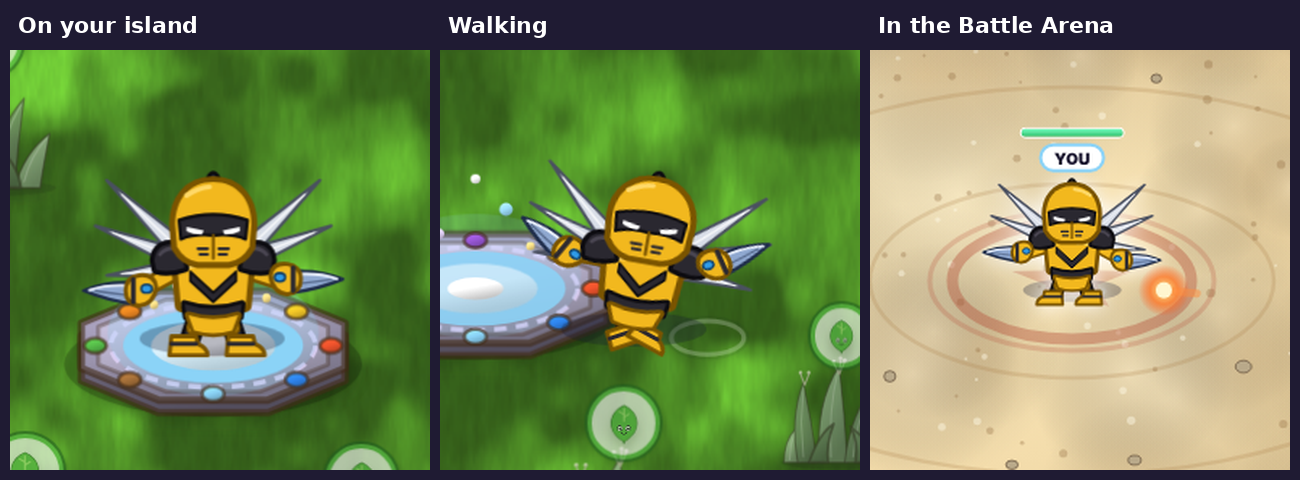
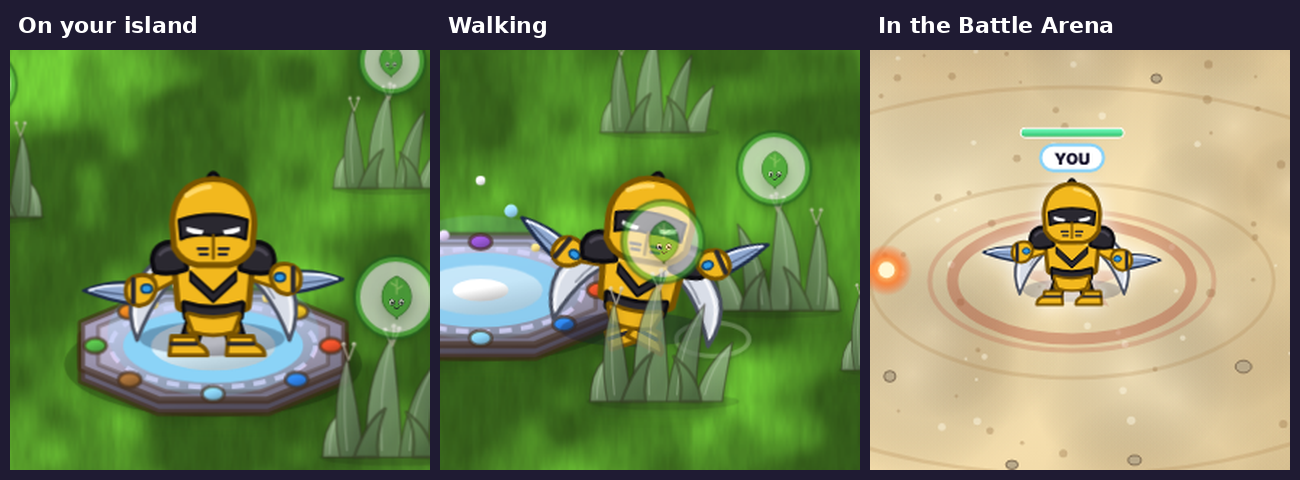
Preview: winged warrior with single down-hanging blade wings
Claude-Session: https://claude.ai/code/session_01VLdLc5ictpYJybhtPWKJ3B

diff --git a/src/previews/sentinel.js b/src/previews/sentinel.js
@@ -1,5 +1,5 @@
 /* Winged warrior (no name yet): the owner's armoured warrior in yellow and black: a knight helmet with a black visor and white eye
-   slits, a black crest, a yellow breastplate with a black chevron, black shoulder guards, metal blade-feather wings, solid armour
+   slits, a black crest, a yellow breastplate with a black chevron, black shoulder guards, a big silver blade-wing hanging down behind each shoulder, solid armour
    plates (no stripes), and yellow gauntlets with blue gems and one big blade sticking out of each (Air, melee, Giant). (preview only) */
 var SN = { Y: '#f2b81e', YD: '#7a5400', YL: '#ffd968', K: '#2a2830', KD: '#0c0b10', KL: '#4a4652', BL: '#2f9be8', BLD: '#0e3f6a', W: '#d9dee8', WD: '#4a5060', ST: '#8fa8d0', STD: '#1e2c4a' };
 function snClaw(x, y, m){      /* a yellow gauntlet with one big blade sticking out past the knuckles; m = 1 blades right, -1 left */
@@ -47,16 +47,13 @@ function snBack(c){
     return '<path d="M' + x1 + ' ' + y1 + 'L' + x2 + ' ' + y2 + '" stroke="' + S.YD + '" stroke-width="10" stroke-linecap="round"/>' +
       '<path d="M' + x1 + ' ' + y1 + 'L' + x2 + ' ' + y2 + '" stroke="' + S.Y + '" stroke-width="6.4" stroke-linecap="round"/>';
   }
-  /* metal blade-feather wings: three long silver blades on each side, set in a black frame */
+  /* wings: one big silver blade on each side, hanging down behind him from the shoulders */
   function wing(m){
     function X(x){ return (50 + (x - 50) * m).toFixed(1); }
-    function blade(x0, y0, x1, y1, w){
-      var dx = x1 - x0, dy = y1 - y0, L = Math.hypot(dx, dy), nx = -dy / L * w, ny = dx / L * w;
-      return '<path d="M' + X(x0 + nx) + ' ' + (y0 + ny) + 'L' + X(x1) + ' ' + y1 + 'L' + X(x0 - nx) + ' ' + (y0 - ny) + 'Z" fill="' + S.W + '" stroke="' + S.WD + '" stroke-width="1.6" stroke-linejoin="round"/>' +
-        '<path d="M' + X(x0) + ' ' + y0 + 'L' + X(x0 + dx * 0.8) + ' ' + (y0 + dy * 0.8) + '" stroke="#fff" stroke-width="1" stroke-linecap="round" stroke-opacity=".8"/>';
-    }
-    return blade(34, 50, -6, 12, 5.4) + blade(34, 54, -12, 36, 5.2) + blade(34, 58, -6, 62, 4.8) +
-      '<path d="M' + X(36) + ' 48L' + X(28) + ' 46L' + X(26) + ' 60L' + X(36) + ' 60Z" fill="' + S.K + '" stroke="' + S.KD + '" stroke-width="1.8" stroke-linejoin="round"/>';
+    return '<path d="M' + X(36) + ' 47Q' + X(16) + ' 52 ' + X(8) + ' 70Q' + X(4) + ' 82 ' + X(10) + ' 96Q' + X(16) + ' 80 ' + X(24) + ' 70Q' + X(31) + ' 62 ' + X(36) + ' 60Z" fill="' + S.W + '" stroke="' + S.WD + '" stroke-width="2" stroke-linejoin="round"/>' +
+      '<path d="M' + X(32) + ' 50Q' + X(16) + ' 57 ' + X(10) + ' 74Q' + X(8) + ' 83 ' + X(10) + ' 91" fill="none" stroke="#fff" stroke-width="1.4" stroke-linecap="round" stroke-opacity=".85"/>' +
+      '<path d="M' + X(33) + ' 57Q' + X(24) + ' 63 ' + X(18) + ' 74" fill="none" stroke="' + S.WD + '" stroke-width="1.1" stroke-linecap="round" stroke-opacity=".5"/>' +
+      '<path d="M' + X(37) + ' 46L' + X(29) + ' 46L' + X(27) + ' 61L' + X(37) + ' 61Z" fill="' + S.K + '" stroke="' + S.KD + '" stroke-width="1.8" stroke-linejoin="round"/>';
   }
   return '<svg class="limbs" viewBox="0 0 100 100" aria-hidden="true" style="overflow:visible">' + wing(-1) + wing(1) + leg('lgL', 41, 38, 35) + leg('lgR', 59, 62, 65) +
     '<g><g class="pump pL">' + arm(30, 60, 17, 67) + snClaw(12, 72, -1) + '</g></g>' +

diff --git a/HANDOFF.md b/HANDOFF.md
@@ -21,7 +21,7 @@ Test version (claude.ai artifact, owner's private test page): https://claude.ai/
 
 **Game rule: no passive health regeneration in any minigame.** Food drops are the only way to heal (Guard Post, Boss Raid, Island Quest). Island Quest used to heal 7%/s after 4 s out of a fight; that was removed. Do not add it to new minigames. Test: `node src/mock2/tqregen.js`.
 
-**Special pals (`c.body`):** hand-drawn bodies picked under "Look" in the New pal form: `eagle` (Sky Eagle, Air, ranged, arm cannon), `wyrm` (Grave Dragon, Undead, ranged, purple lightning shots via `shotLook` / `drawZap`, also sent as 'zap' in arena snapshots and as a flag in quest `Z`), `knight` (Skeleton Knight, Undead, melee, sword and shield), `mecha` (Wheel Bot, the owner's yellow robot on a wheel, Tech, ranged, always Giant), `cyc` (Iron Cyclops, the one-eyed soldier with the all-black helmet, Undead, melee with fists, always Giant), `rogue` (Masked Rogue, slim human girl in leather with a green eye mask and bandana, dark blue ponytail, two daggers, Life, melee, Normal), `md` (Mech Dragon, the owner's green dino-dragon in blue-and-gold mech gear with lens eyes and a wrist blaster, Tech, ranged, Normal), `sh` (Mushroom Guy, the owner's yellow one-eyed mushroom with a red spotted cap and red clawed gloves, holding a little mushroom over his glove, Life, ranged, Normal). `tk` (Technician, the owner's technician girl, Tech, melee, Normal). Drawing: (`tinker.js`, `tinker_preview.png`: red bob, blue armour with gold gear emblems, brown suit, blue bracers and boots with gold bands, big double-ended wrench, tech goggles with brass rims and tinted lenses worn over her eyes). `ar` (Arcane Dragon, an original dark-purple magic dragon: fiery orange crystal horns and tail crystal (fireball colours), dark gold cheek runes, wing tips, toe claws and sparkles, amber slit eyes, starry-night wings, lavender belly, holds a magic fireball; Magic, ranged, Normal; `arcane.js`). The owner asked for the small blue bits to be dark yellow; for the horns and tail crystal they then asked for a fiery yellow like the fireball; they were made fire-orange with yellow glints instead of flat yellow, to stay clear of the famous purple fire dragon (gold horns + gold tail tip). Do not make them yellow/gold. Previewed, not added: a winged armoured warrior in yellow and black (`sentinel.js`, `sentinel_preview.png`: knight helmet with a black visor and white eye slits, black crest, breastplate with a black chevron, black shoulder guards, silver blade-feather wings, solid plates without stripes, yellow gauntlets with blue gems and one big blue-steel blade sticking out of each; Air, melee, Giant). The owner's bee-warrior drawings were declined as Swarm (Skylanders) look-alikes; keep this one free of bee features (antennae, insect eyes or wings, stripes, stinger). Size is locked too (`giant` in `PAL_BODIES`): the first three are always Normal, the Wheel Bot always Giant; `cleanChar` forces it on load. `PAL_BODIES` holds label, locked element, locked style and the `art` / `back` / `front` drawing functions (from `src/previews/*.js`, now copied into the game). `cleanChar` keeps `body` and forces the element and style to match; `coopChar` sends it to friends. `palFigure` draws the full figure; `palArt` returns the full figure in a `.pbody` wrapper (cards, form preview). Picture upload is hidden for them. The player still names them. Test: `node src/mock2/tbodies.js <outdir>`.
+**Special pals (`c.body`):** hand-drawn bodies picked under "Look" in the New pal form: `eagle` (Sky Eagle, Air, ranged, arm cannon), `wyrm` (Grave Dragon, Undead, ranged, purple lightning shots via `shotLook` / `drawZap`, also sent as 'zap' in arena snapshots and as a flag in quest `Z`), `knight` (Skeleton Knight, Undead, melee, sword and shield), `mecha` (Wheel Bot, the owner's yellow robot on a wheel, Tech, ranged, always Giant), `cyc` (Iron Cyclops, the one-eyed soldier with the all-black helmet, Undead, melee with fists, always Giant), `rogue` (Masked Rogue, slim human girl in leather with a green eye mask and bandana, dark blue ponytail, two daggers, Life, melee, Normal), `md` (Mech Dragon, the owner's green dino-dragon in blue-and-gold mech gear with lens eyes and a wrist blaster, Tech, ranged, Normal), `sh` (Mushroom Guy, the owner's yellow one-eyed mushroom with a red spotted cap and red clawed gloves, holding a little mushroom over his glove, Life, ranged, Normal). `tk` (Technician, the owner's technician girl, Tech, melee, Normal). Drawing: (`tinker.js`, `tinker_preview.png`: red bob, blue armour with gold gear emblems, brown suit, blue bracers and boots with gold bands, big double-ended wrench, tech goggles with brass rims and tinted lenses worn over her eyes). `ar` (Arcane Dragon, an original dark-purple magic dragon: fiery orange crystal horns and tail crystal (fireball colours), dark gold cheek runes, wing tips, toe claws and sparkles, amber slit eyes, starry-night wings, lavender belly, holds a magic fireball; Magic, ranged, Normal; `arcane.js`). The owner asked for the small blue bits to be dark yellow; for the horns and tail crystal they then asked for a fiery yellow like the fireball; they were made fire-orange with yellow glints instead of flat yellow, to stay clear of the famous purple fire dragon (gold horns + gold tail tip). Do not make them yellow/gold. Previewed, not added: a winged armoured warrior in yellow and black (`sentinel.js`, `sentinel_preview.png`: knight helmet with a black visor and white eye slits, black crest, breastplate with a black chevron, black shoulder guards, a big silver blade-wing hanging down behind each shoulder, solid plates without stripes, yellow gauntlets with blue gems and one big blue-steel blade sticking out of each; Air, melee, Giant). The owner's bee-warrior drawings were declined as Swarm (Skylanders) look-alikes; keep this one free of bee features (antennae, insect eyes or wings, stripes, stinger). Size is locked too (`giant` in `PAL_BODIES`): the first three are always Normal, the Wheel Bot always Giant; `cleanChar` forces it on load. `PAL_BODIES` holds label, locked element, locked style and the `art` / `back` / `front` drawing functions (from `src/previews/*.js`, now copied into the game). `cleanChar` keeps `body` and forces the element and style to match; `coopChar` sends it to friends. `palFigure` draws the full figure; `palArt` returns the full figure in a `.pbody` wrapper (cards, form preview). Picture upload is hidden for them. The player still names them. Test: `node src/mock2/tbodies.js <outdir>`.
 
 **Pet facing:** every pet entry in `PETS` must have `face: 'left' | 'right' | 'front'` (which way its picture looks). `petFlip` mirrors it so it always looks where it walks. (This used to be a hand-kept list `PET_LEFT`; the Key Bird was missing from it and walked backwards.) A pet without `face` falls back to guessing from its eye positions and logs a console warning. When adding a pet, set `face` and run `node src/mock2/tpets.js` (must say PASS).
 
